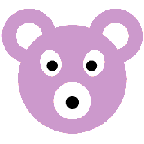
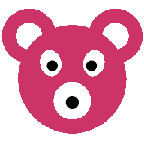
boulot 02/19 21:28

diff --git a/library-js/dynaPlay.js b/library-js/dynaPlay.js
@@ -22,8 +22,11 @@ function getValueFromName (varName){
 function setValueFromName (varName, varValue){
 	if (varValue == undefined) varValue = null;
 	if (! varName.includes ('.')){
-		if (varValue.constructor.name != 'Array' && window[varName].constructor.name == 'Array') window[varName].push (varValue);
-		else window[varName] = varValue;
+		if (window[varName].constructor.name === 'Array' && varValue.constructor.name === window[varName][0].constructor.name)
+			window[varName].push (varValue);
+		else if (window[varName].constructor.name === varValue.constructor.name) window[varName] = varValue;
+		else if (! 'Object Array'.includes (window[varName].constructor.name) && ! 'Object Array'.includes (varValue.constructor.name))
+			window[varName] = varValue;
 	}
 	else{
 		var listName = varName.split ('.');
@@ -109,9 +112,41 @@ HTMLElement.prototype.printOne = function (varName, varValue){
 		for (var a=0; a< this.attributes.length; a++) if (this.attributes[a].value.includes ('((' + varName + '))'))
 			this.attributes[a].value = this.attributes[a].value.replace ('((' + varName + '))', varValue);
 }}
-function modifInputValue (event){
-	console.log ('modif', event.target.value);
-}
+HTMLTextAreaElement.prototype.printOne = function(){
+	if (exists (this.name)){
+		var varValue = getValueFromName (this.name);
+		if (exists (varValue)){
+			console.log ('titti');
+			this.innerHTML ="";
+			if (varValue.constructor.name == 'Array')
+				for (var v=0; v< varValue.length; v++) this.innerHTML = this.innerHTML + varValue[v] +'\n';
+			else if (varValue.constructor.name == 'Object')
+				for (var v in varValue) this.innerHTML = this.innerHTML +v+': '+ varValue[v] +'\n';
+			else this.innerHTML = varValue;
+			this.addEventListener ('change', function (event){
+				document.body.innerHTML = bodyTemplate;
+				setValueFromName (event.target.name, event.target.innerHTML);
+				dpLoad();
+			});
+}}}
+HTMLSelectElement.prototype.printOne = function(){
+	if (exists (this.name)){
+		var varValue = getValueFromName (this.name);
+		if (exists (varValue)){
+			var valeurExist = false;
+			for (var o=0; o< this.options.length; o++) if (varValue === this.options[o].value){
+				this.selectedIndex = this.options[o].index;
+				valeurExist = true;
+			}
+			if (! valeurExist) setValueFromName (this.name, this.value);
+			this.addEventListener ('change', function (event){
+				document.body.innerHTML = bodyTemplate;
+				setValueFromName (event.target.name, event.target.options [event.target.selectedIndex].value);
+				var callback = this.getAttribute ('callback');
+				if (exists (callback)) window [callback] (event.target.options [event.target.selectedIndex].value);
+				dpLoad();
+			});
+}}}
 HTMLInputElement.prototype.printOne = function(){
 	if (exists (this.name)){
 		var varValue = getValueFromName (this.name);
@@ -119,8 +154,8 @@ HTMLInputElement.prototype.printOne = function(){
 			if (varValue.constructor.name == 'Array') this.setAttribute ('value', varValue[0]);
 			else if (varValue.constructor.name != 'Object') this.setAttribute ('value', varValue);
 			this.addEventListener ('change', function (event){
-				setValueFromName (event.target.name, event.target.value);
 				document.body.innerHTML = bodyTemplate;
+				setValueFromName (event.target.name, event.target.value);
 				dpLoad();
 			});
 }}}
@@ -134,6 +169,8 @@ function dpLoad(){
 	}
 	// affichage des inputs
 	var inputList = document.getElementsByTagName ('input');
+	for (var v=0; v< inputList.length; v++) inputList[v].printOne();
+	var inputList = document.getElementsByTagName ('select');
 	for (var v=0; v< inputList.length; v++) inputList[v].printOne();
 	inputList = document.getElementsByTagName ('textarea');
 	for (var v=0; v< inputList.length; v++) inputList[v].printOne();

diff --git a/pwa/depense/index.html b/pwa/depense/index.html
@@ -1,14 +1,14 @@
-<!doctype html><html><head>
+<!DOCTYPE html><html><head>
 	<title>mes dépenses</title>
 	<meta name='viewport' content='width=device-width,initial-scale=1'/>
 	<meta charset='utf-8'/>
 	<base target='_blank'>
 	<link rel='manifest' href='manifest.webmanifest'/>
-	<link rel='icon' type='image/png' href='static/icone-192.png'/>
-	<meta name='msapplication-TileImage' content='static/icone-192.png'>
+	<link rel='icon' type='image/png' href='static/nounours.svg'/>
+	<meta name='msapplication-TileImage' content='static/nounours.svg'>
 	<meta name='msapplication-TileColor' content='#C36'>
 	<meta name='theme-color' content='#C36'/>
-	<link rel='apple-touch-icon' type='image/png' href='static/icone-192.png'/>
+	<link rel='apple-touch-icon' type='image/png' href='static/nounours.svg'/>
 	<meta name='apple-mobile-web-app-capable' content='yes'>
 	<meta name='apple-mobile-web-app-status-bar-style' content='#C36'>
 	<meta name='apple-mobile-web-app-title' content='mes dépenses'>
@@ -20,11 +20,20 @@
 <style type='text/css'>
 	form {
 		display: grid;
-		grid-template-columns: 6em 1fr;
+		grid-template-columns: 8em 1fr;
 		grid-gap: 0.5em;
 	}
 	table, tr { width: 100%; }
 	input[type='text'].secret { display: none; }
+	section >p {
+		display: grid;
+		grid-template-columns: 6em 1fr 1fr 4em;
+	}
+	section >p> span:nth-child(5) { grid-column: 1/5; }
+	@media (min-width: 770px){
+		section >p { grid-template-columns: 6em 1fr 1fr 4em 2fr; }
+		section >p> span:nth-child(5) { grid-column: 5/6; }
+	}
 </style></head><body>
 	<h1>enregistrer mes dépenses</h1>
 	<form>
@@ -45,10 +54,13 @@
 		<input type='button' onclick='entrerDepense()' value='valider'/>
 	</form>
 	<h2>mes dépenses</h2>
-	<table>
+	<section><p list='depenseList'>
+		<span>(( date ))</span><span>(( lieu ))</span><span>(( categorie ))</span><span>(( montant ))</span><span class='large'>(( commentaire ))</span>
+	</p></section>
+	<!-- table>
 		<tr><th>date</th><th>lieu</th><th>catégorie</th><th>montant</th><th>commentaire</th></tr>
-		<tr list='depenseList'><td>(( date ))</td><td>(( lieu ))</td><td>(( categorie ))</td><td>(( montant ))</td><td>(( commentaire ))</td></tr>
-	</table>
+		<tr list='depenseList'><td>(( date ))</td><td>(( lieu ))</td><td>(( categorie ))</td><td>(( montant ))</td><td class='large'>(( commentaire ))</td></tr>
+	</table -->
 	<button onclick='sauverModif()'>enregistrer vos modifs</button>
 	<button id='install-pwa'>installer l'application</button>
 	<script type='text/javascript' src='service-launcher.js'></script>
@@ -68,7 +80,6 @@ var depenseList =[{ date: '2023-02-14', montant: '12.4', lieu: 'paris', categori
 dpInit();
 
 function trierDepenses (depenseA, depenseB){
-	console.log ('o');
 	if (depenseA.date < depenseB.date) return -1;
 	else if (depenseA.date > depenseB.date) return 1;
 	else if (depenseA.lieu < depenseB.lieu) return -1;
@@ -92,7 +103,6 @@ function entrerDepense(){
 	if (depLieu === 'o') depLieu = depLieuSel;
 	depenseList.push ({ date: depDate, montant: depMontant, lieu: depLieu, categorie: depCateg, commentaire: depComm });
 	depenseList.sort (trierDepenses);
-	console.log (depenseList);
 	depDate = new Date().toStringPerso();
 	depLieu ="o";
 	depCateg ="o";
@@ -103,5 +113,12 @@ function sauverModif(){
 	sendToIdb (databaseName, depenseList,
 		function(){ sendToOdb (databaseName, depenseList); });
 }
+function afficherDepenses (depList){
+	depenseList =[];
+	for (var d=0; d< depList.length; d++) depenseList.push (depList[d]);
+	document.body.innerHTML = bodyTemplate;
+	dpLoad();
+}
+getFromIdb (databaseName, afficherDepenses);
 	</script>
 </body></html>

diff --git a/pwa/depense/static/dynaPlay.js b/pwa/depense/static/dynaPlay.js
@@ -7,6 +7,7 @@ function exists (object){
 	else if (typeof (object) == 'string' && (object.length ===0 || object ==="" || " \n\r\t".includes (object))) return false;
 	else return true;
 }
+Object.prototype.fill = function (objRef){ for (var f in objRef) if (! this[f]) this[f] = objRef[f]; }
 function getValueFromName (varName){
 	var varValue = null;
 	if (! varName.includes ('.')) varValue = window[varName];
@@ -141,6 +142,8 @@ HTMLSelectElement.prototype.printOne = function(){
 			this.addEventListener ('change', function (event){
 				document.body.innerHTML = bodyTemplate;
 				setValueFromName (event.target.name, event.target.options [event.target.selectedIndex].value);
+				var callback = this.getAttribute ('callback');
+				if (exists (callback)) window [callback] (event.target.options [event.target.selectedIndex].value);
 				dpLoad();
 			});
 }}}

diff --git a/pwa/depense/static/database.js b/pwa/depense/static/database.js
@@ -1,6 +1,6 @@
 const pathLocal = 'http://localhost/site-dp/pwa/depense/php/';
 const pathOvh = 'https://deborah-powers.fr/pwa/depense/php/';
-const pathApp = pathLocal;
+const pathApp = pathOvh;
 
 const pathAdd = pathApp + 'add.php?';
 const pathPut = pathApp + 'put.php?';
@@ -19,7 +19,8 @@ function createItem (item){
 itemToUrl = function (url, item){
 	var urlItem = url;
 	for (p in item){
-		if (typeof (item[p]) != 'string') item[p] = item[p].toString();
+		if (item[p].constructor.name == 'Number') item[p] = item[p].toString();
+		else if (item[p].constructor.name != 'String') continue;
 		urlItem = urlItem +p+'='+ item[p] +'&';
 	}
 	urlItem = urlItem.slice (0,-1);

diff --git a/pwa/depense/service-worker.js b/pwa/depense/service-worker.js
@@ -4,16 +4,12 @@ const filesToCache =[
 	'/pwa/depense/index.html',
 	'/pwa/depense/service-launcher.js',
 	'/pwa/depense/static/',
+	'/pwa/depense/static/nounours.svg',
 	'/pwa/depense/static/database.js',
 	'/pwa/depense/static/library.js',
 	'/pwa/depense/static/dynaPlay.js',
 	'/pwa/depense/static/perso.css',
 	'/pwa/depense/static/structure.css',
-	'/pwa/depense/php/',
-	'/pwa/depense/php/get.php',
-	'/pwa/depense/php/add.php',
-	'/pwa/depense/php/put.php',
-	'/pwa/depense/php/del.php',
 ];
 // mettre en cache le contenu de l'app
 self.addEventListener ('install', function (event){

diff --git a/pwa/depense/php/add.php b/pwa/depense/php/add.php
@@ -2,9 +2,15 @@
 include ('../../../library-php/dbCommon.php');
 
 $id = $_GET['id'];
-$message = $_GET['message'];
+$date = $_GET['date'];
+$lieu = $_GET['lieu'];
+$categorie = $_GET['categorie'];
+$montant = $_GET['montant'];
+$commentaire = $_GET['commentaire'];
 
-$sql = "insert into $base.message (id, message) values ($id, '$message')";
+$sql = "insert into $base.depense (id, date, lieu, categorie, montant, commentaire) values ('$id', '$date', '$lieu', '$categorie', '$montant', '$commentaire');";
+echo "<p>$sql</p>";
+
 $result = $connection->query ($sql);
 
 if ($result == False) echo "l'insertion de l'élément $id à échoué";

diff --git a/pwa/depense/php/put.php b/pwa/depense/php/put.php
@@ -2,9 +2,13 @@
 include ('../../../library-php/dbCommon.php');
 
 $id = $_GET['id'];
-$message = $_GET['message'];
+$date = $_GET['date'];
+$lieu = $_GET['lieu'];
+$categorie = $_GET['categorie'];
+$montant = $_GET['montant'];
+$commentaire = $_GET['commentaire'];
 
-$sql = "update $base.message set message = '$message' where id= $id";
+$sql = "update $base.depense set date='$date', lieu='$lieu', categorie='$categorie', montant='$montant', commentaire='$commentaire' where id='$id';";
 $result = $connection->query ($sql);
 
 if ($result == False) echo "la modification de l'élément $id à échoué";

diff --git a/pwa/depense/php/get.php b/pwa/depense/php/get.php
@@ -1,11 +1,17 @@
 <?php
 include ('../../../library-php/dbCommon.php');
 
-$sql = "select id, message from $base.message";
+$sql = "select * from $base.depense;";
 $result = $connection->query ($sql);
 
 $resJson =[];
-while ($row = $result->fetch_assoc()) $resJson[] =[ 'id' => $row['id'], 'message' => $row['message'] ];
-
+while ($row = $result->fetch_assoc()) $resJson[] =[
+	'id' => $row['id'],
+	'date' => $row['date'],
+	'lieu' => $row['lieu'],
+	'categorie' => $row['categorie'],
+	'montant' => $row['montant'],
+	'commentaire' => $row['commentaire']
+];
 echo json_encode ($resJson);
 ?>

diff --git a/pwa/depense/php/del.php b/pwa/depense/php/del.php
@@ -3,7 +3,7 @@ include ('../../../library-php/dbCommon.php');
 
 $id = $_GET['id'];
 
-$sql = "delete from $base.message where id= $id";
+$sql = "delete from $base.depense where id='$id';";
 $result = $connection->query ($sql);
 
 if ($result == False) echo "la suppression de l'élément $id à échoué";
